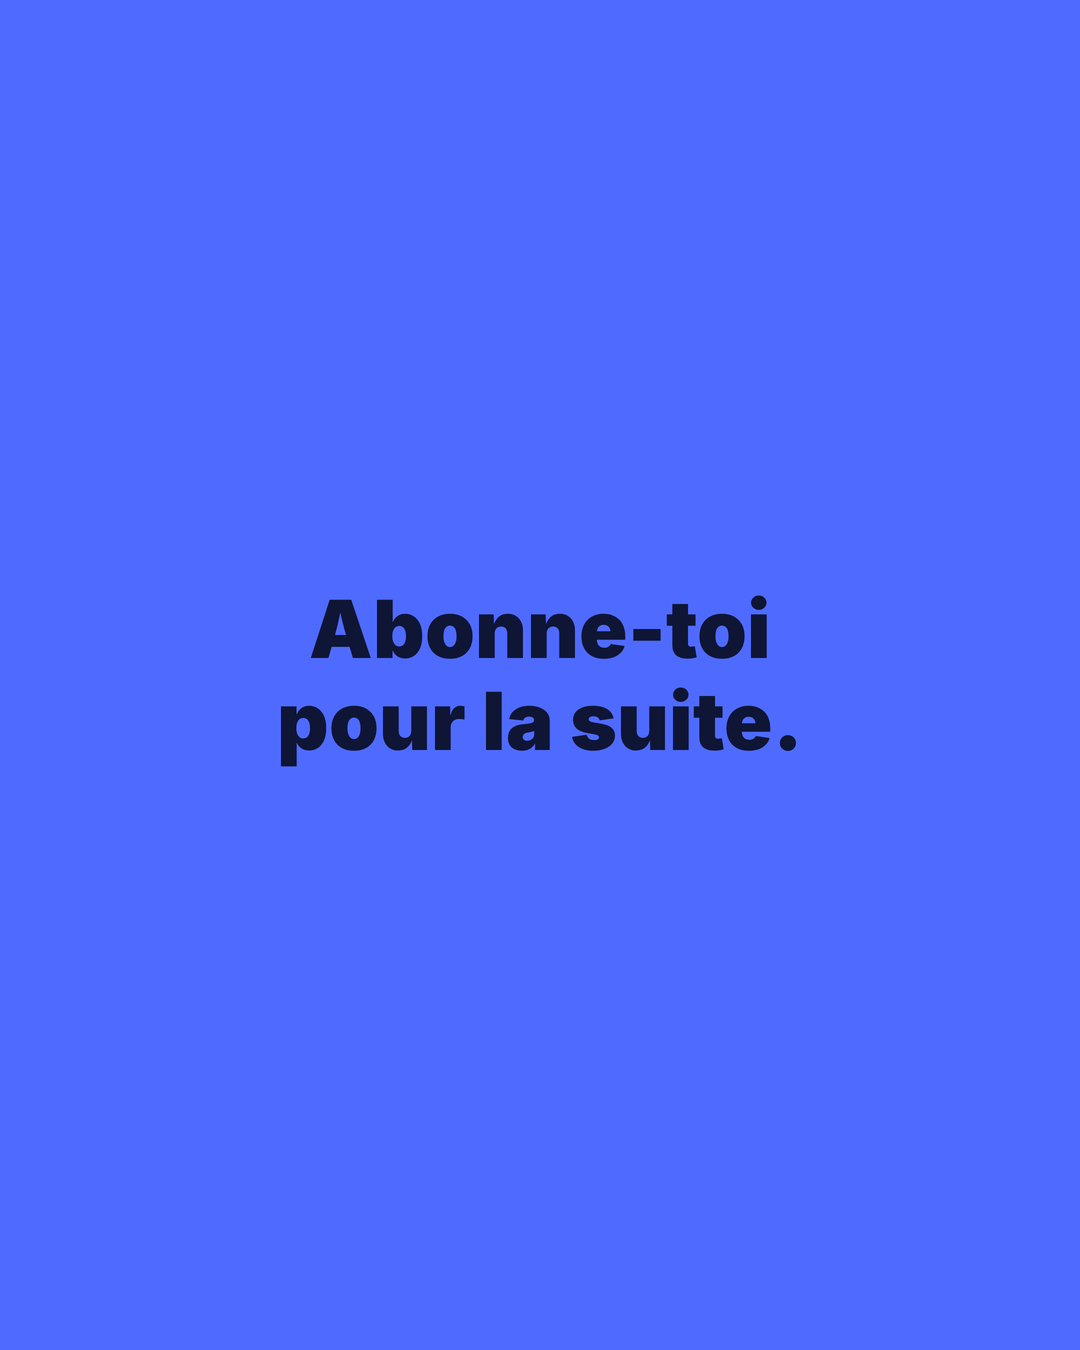
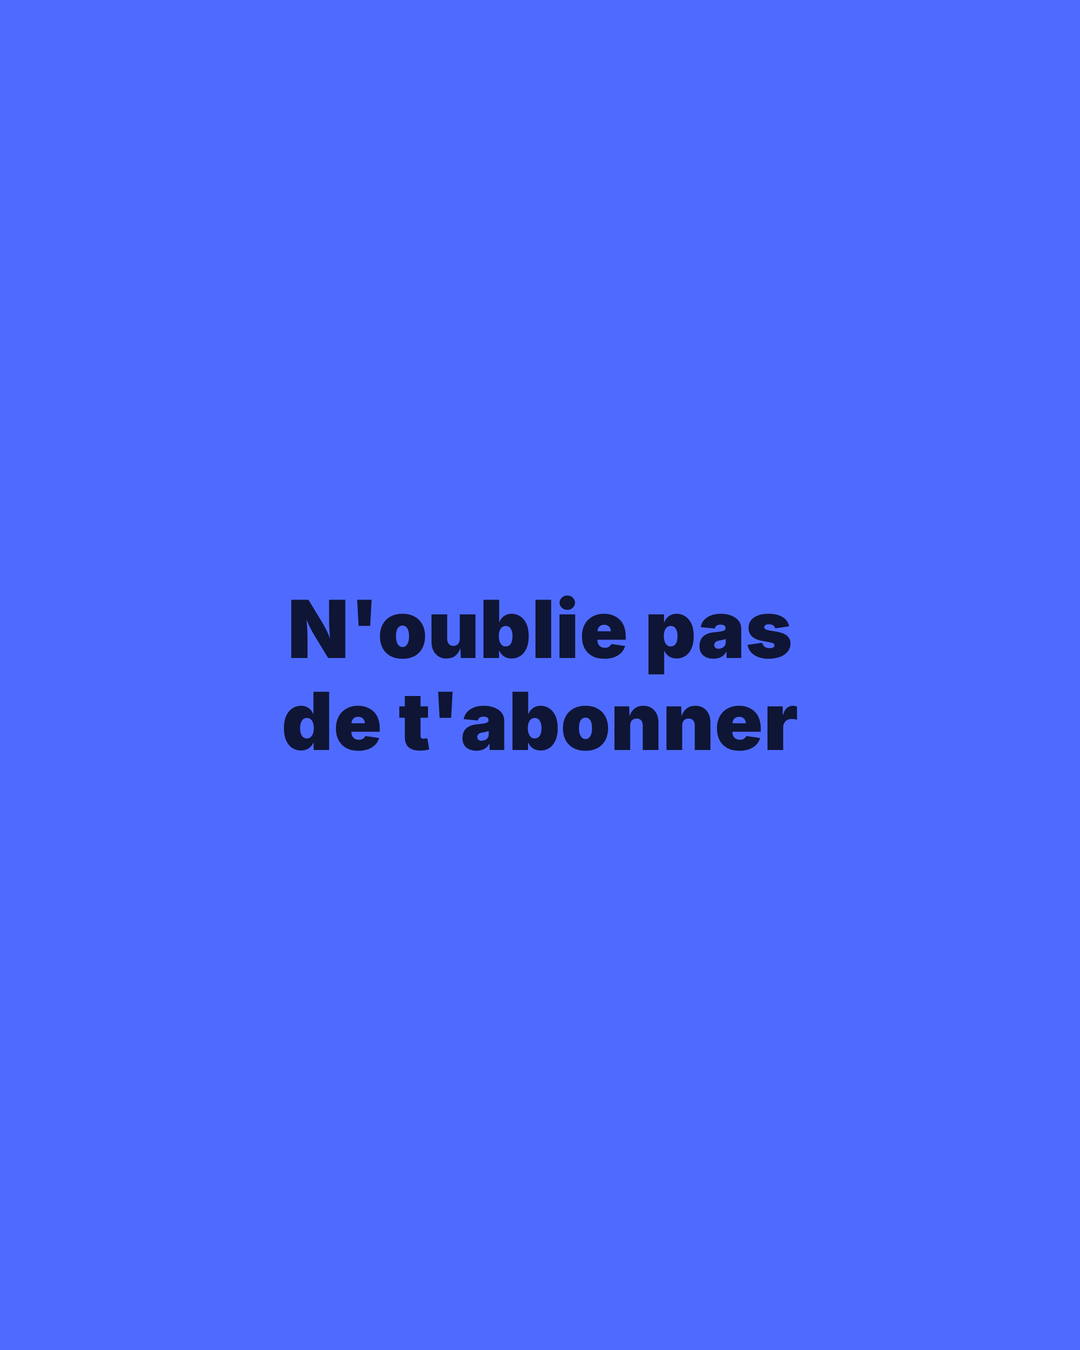
Couverture noir sur rose clair, CTA « N'oublie pas de t'abonner »
Claude-Session: https://claude.ai/code/session_01DANkzAGGXfzeMMCtZApByu

Changed region(s): [[0.2444, 0.4356, 0.7333, 0.5911]]

diff --git a/slides/slide-01.html b/slides/slide-01.html
@@ -7,7 +7,7 @@
 <link rel="preconnect" href="https://fonts.gstatic.com" crossorigin>
 <link href="https://fonts.googleapis.com/css2?family=Inter:wght@400;600;900&display=block" rel="stylesheet">
 <style>
-:root { --bg: #0F1535; --fg: #FFFFFF; }
+:root { --bg: #F8D7E0; --fg: #000000; }
 * { margin: 0; padding: 0; box-sizing: border-box; }
 html, body { width: 1080px; height: 1350px; }
 body {

diff --git a/slides/slide-15.html b/slides/slide-15.html
@@ -28,7 +28,7 @@ p + p { margin-top: 0.6em; }
 </head>
 <body>
   <main class="block">
-    <p>Abonne-toi pour la suite.</p>
+    <p>N'oublie pas de t'abonner</p>
   </main>
 </body>
 </html>
